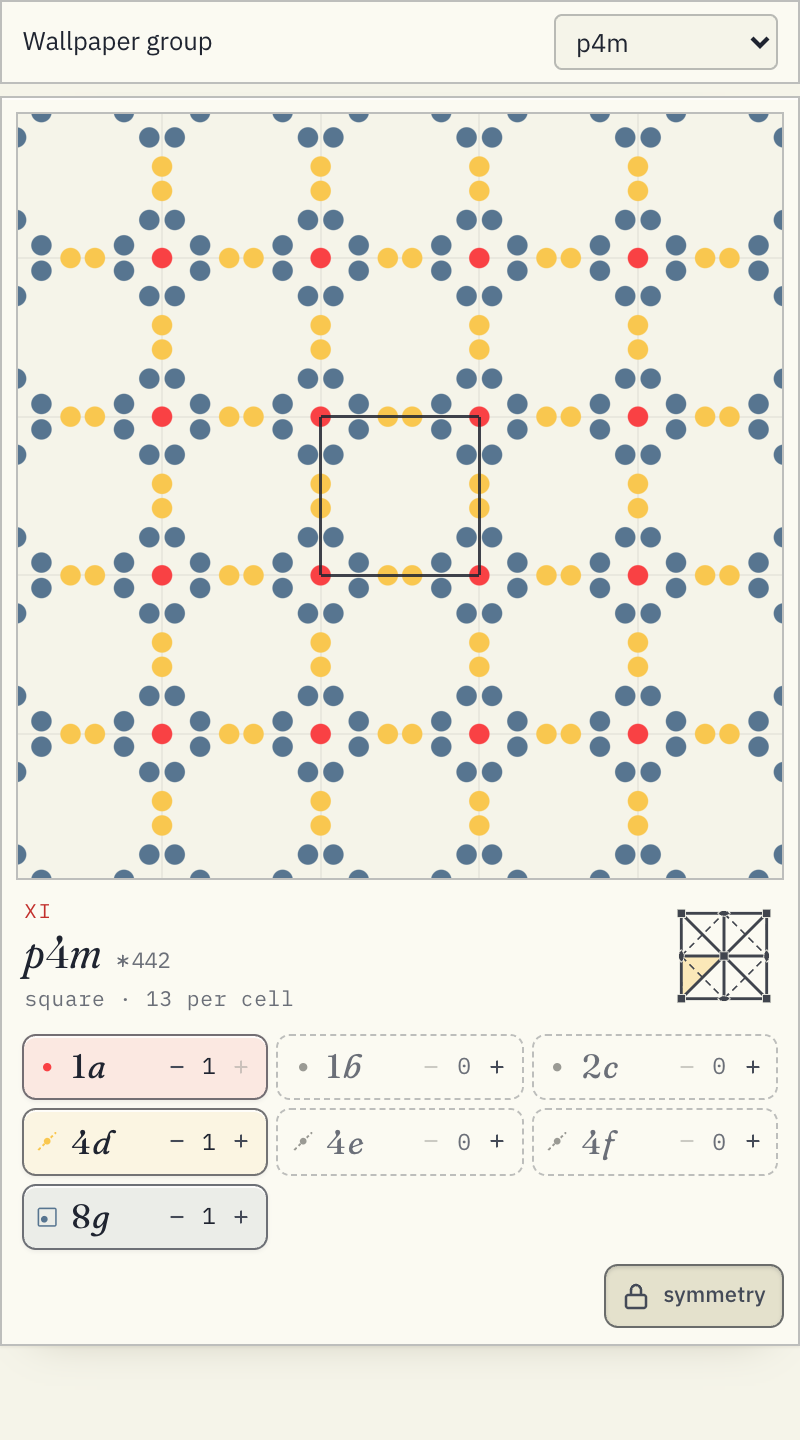
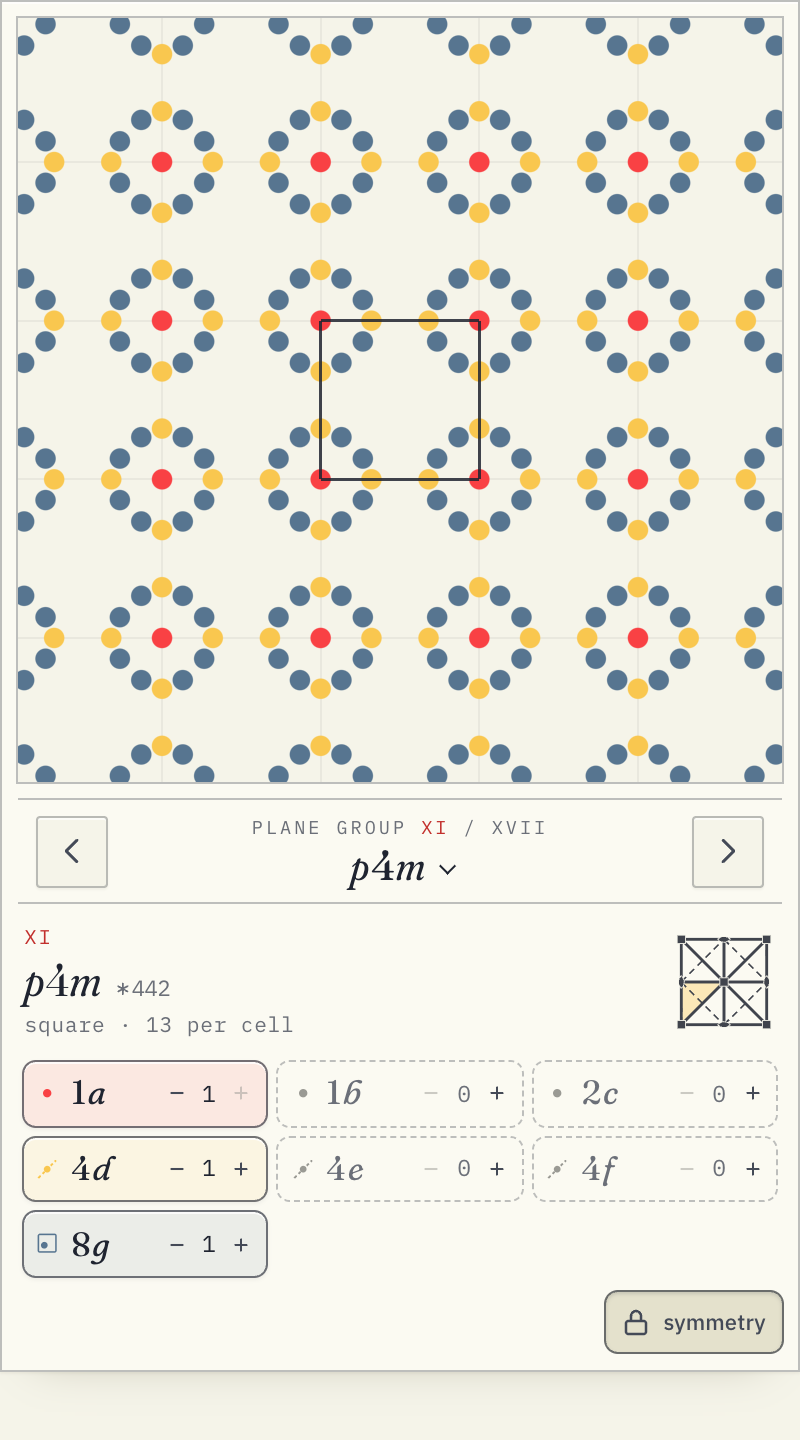
Style embedded group navigation as an atlas plate

diff --git a/src/embed.tsx b/src/embed.tsx
@@ -8,11 +8,59 @@ import "./site/styles/tokens.css";
 import "./site/styles/base.css";
 import "./site/styles/embed.css";
 import { Tile } from "./site/components/Tile";
+import { ChevronLeftIcon, ChevronRightIcon } from "./site/components/Icons";
+import { HM } from "./site/components/GroupSymbol";
 import { GpuSupportProvider, useGpuSupport } from "./site/hooks/useGpuSupport";
-import { planeGroups, randomOccupancy } from "./site/lib/groups";
+import { planeGroups, randomOccupancy, toRoman } from "./site/lib/groups";
 import { Rng } from "./engine/math/rng";
 
 const groups = planeGroups();
+
+function GroupNavigation({ selectedName, onChange }: { selectedName: string; onChange: (name: string) => void }) {
+  const index = groups.findIndex((group) => group.name === selectedName);
+  const previous = index < 0 ? null : groups[(index - 1 + groups.length) % groups.length];
+  const next = index < 0 ? null : groups[(index + 1) % groups.length];
+
+  return (
+    <nav className="embed__navigation" aria-label="Wallpaper group navigation">
+      <button
+        type="button"
+        className="embed__step"
+        onClick={() => previous && onChange(previous.name)}
+        disabled={!previous}
+        aria-label={`Previous wallpaper group${previous ? `: ${previous.name}` : ""}`}
+        title={previous?.name}
+      >
+        <ChevronLeftIcon size={19} />
+      </button>
+      <div className="embed__choice">
+        <p className="embed__index">
+          Plane group {index < 0 ? "" : <><span>{toRoman(index + 1)}</span> / {toRoman(groups.length)}</>}
+        </p>
+        <div className="embed__select-wrap">
+          <label className="visually-hidden" htmlFor="embed-group">Wallpaper group</label>
+          <span className="embed__selected" aria-hidden="true">
+            {index < 0 ? "Choose a group" : <HM name={selectedName} />}
+          </span>
+          <select id="embed-group" value={index < 0 ? "" : selectedName} onChange={(event) => onChange(event.currentTarget.value)}>
+            {index < 0 && <option value="" disabled>Choose a group</option>}
+            {groups.map((option) => <option key={option.name} value={option.name}>{option.name}</option>)}
+          </select>
+        </div>
+      </div>
+      <button
+        type="button"
+        className="embed__step"
+        onClick={() => next && onChange(next.name)}
+        disabled={!next}
+        aria-label={`Next wallpaper group${next ? `: ${next.name}` : ""}`}
+        title={next?.name}
+      >
+        <ChevronRightIcon size={19} />
+      </button>
+    </nav>
+  );
+}
 
 function Embed() {
   const { supported } = useGpuSupport();
@@ -24,24 +72,24 @@ function Embed() {
     url.searchParams.set("group", name);
     window.history.replaceState(window.history.state, "", url);
   };
+  const navigation = <GroupNavigation selectedName={selectedName} onChange={changeGroup} />;
 
   return (
     <main className="embed">
-      <div className="embed__picker">
-        <label htmlFor="embed-group">Wallpaper group</label>
-        <select id="embed-group" value={group?.name ?? ""} onChange={(event) => changeGroup(event.currentTarget.value)}>
-          {!group && <option value="" disabled>Choose a group</option>}
-          {groups.map((option) => <option key={option.name} value={option.name}>{option.name}</option>)}
-        </select>
-      </div>
       {!group ? (
-        <p className="embed__notice">
-          Unknown wallpaper group “{selectedName}”. Choose a group above or visit the <a href="./">atlas</a>.
-        </p>
+        <>
+          {navigation}
+          <p className="embed__notice">
+            Unknown wallpaper group “{selectedName}”. Choose a group above or visit the <a href="./">atlas</a>.
+          </p>
+        </>
       ) : !supported ? (
-        <p className="embed__notice">
-          This simulation needs WebGPU in a supported browser. <a href="./">Open the atlas</a> to learn more.
-        </p>
+        <>
+          {navigation}
+          <p className="embed__notice">
+            This simulation needs WebGPU in a supported browser. <a href="./">Open the atlas</a> to learn more.
+          </p>
+        </>
       ) : (
         <ol className="embed__card" aria-label={`${group.name} wallpaper group simulation`}>
           <Tile
@@ -50,6 +98,7 @@ function Embed() {
             initial={randomOccupancy(group, new Rng(1 + 101 * group.number))}
             seed={1 + 101 * group.number}
             pressure={null}
+            afterVisualization={navigation}
           />
         </ol>
       )}

diff --git a/tests/e2e/embed.spec.ts b/tests/e2e/embed.spec.ts
@@ -8,16 +8,33 @@ test("embeds one selected wallpaper group card", async ({ page }) => {
 
   await expect(card.locator(".tile")).toHaveCount(1);
   await expect(card.locator(".tile__name")).toContainText("p4g");
-  await expect(card.getByRole("combobox", { name: "Wallpaper group" })).toHaveValue("p4g");
+  const selector = card.getByRole("combobox", { name: /Wallpaper group/ });
+  await expect(selector).toHaveValue("p4g");
   await expect(card.getByRole("button", { name: "Pause simulation" })).toBeVisible();
   await expect(card.getByRole("button", { name: "symmetry" })).toBeVisible();
 
-  await card.getByRole("combobox", { name: "Wallpaper group" }).selectOption("p6m");
+  const positions = await card.locator(".tile").evaluate((tile) => {
+    const bounds = (selector: string) => tile.querySelector(selector)!.getBoundingClientRect();
+    return {
+      visualizationBottom: bounds(".tile__mat").bottom,
+      navigationTop: bounds(".embed__navigation").top,
+      navigationBottom: bounds(".embed__navigation").bottom,
+      labelTop: bounds(".tile__label").top,
+    };
+  });
+  expect(positions.navigationTop).toBeGreaterThanOrEqual(positions.visualizationBottom);
+  expect(positions.labelTop).toBeGreaterThanOrEqual(positions.navigationBottom);
+
+  await card.getByRole("button", { name: /Previous wallpaper group/ }).click();
+  await expect(selector).toHaveValue("p4m");
+  await card.getByRole("button", { name: /Next wallpaper group/ }).click();
+  await expect(selector).toHaveValue("p4g");
+
+  await selector.selectOption("p6m");
   await expect(card.locator(".tile")).toHaveCount(1);
   await expect(card.locator(".tile__name")).toContainText("p6m");
   expect(await card.locator("body").evaluate(() => new URL(location.href).searchParams.get("group"))).toBe("p6m");
 
-  const selector = card.getByRole("combobox", { name: "Wallpaper group" });
   for (const name of await selector.locator("option").allTextContents()) {
     await selector.selectOption(name);
     await expect(card.locator(".tile__name")).toContainText(name);
@@ -30,6 +47,6 @@ test("shows a useful message for an unknown group", async ({ page }) => {
   await page.goto("/embed.html?group=unknown");
   await expect(page.getByText(/Unknown wallpaper group/)).toBeVisible();
   await expect(page.locator(".tile")).toHaveCount(0);
-  await page.getByRole("combobox", { name: "Wallpaper group" }).selectOption("p2");
+  await page.getByRole("combobox", { name: /Wallpaper group/ }).selectOption("p2");
   await expect(page.locator(".tile__name")).toContainText("p2");
 });

diff --git a/src/site/styles/embed.css b/src/site/styles/embed.css
@@ -15,25 +15,103 @@ body {
   margin: 0 auto;
 }
 
-.embed__picker {
-  display: flex;
-  align-items: center;
-  justify-content: space-between;
-  gap: 0.75rem;
-  margin-bottom: 0.35rem;
-  padding: 0.4rem 0.65rem;
-  border: 1px solid var(--rule-mid);
-  background: var(--paper-raised);
-  font-family: var(--font-ui);
-  font-size: var(--step--1);
+.embed .tile {
+  grid-template-rows: auto auto auto 1fr auto;
 }
 
-.embed__picker select {
-  min-width: 7rem;
-  padding: 0.2rem 0.4rem;
+.embed__navigation {
+  display: grid;
+  grid-template-columns: 2.25rem minmax(0, 1fr) 2.25rem;
+  align-items: center;
+  gap: 0.35rem;
+  margin: 0.5rem 0.5rem 0;
+  padding: 0.35rem 0.55rem;
+  border-block: 1px solid var(--rule-mid);
+  background: var(--paper-raised);
+}
+
+.embed__step {
+  display: grid;
+  place-items: center;
+  width: 2.25rem;
+  height: 2.25rem;
+  padding: 0;
   border: 1px solid var(--rule-mid);
-  border-radius: var(--radius-s);
+  border-radius: var(--radius-xs);
   background: var(--paper);
+  color: var(--ink-2);
+  cursor: pointer;
+  box-shadow: var(--shadow-card);
+}
+
+.embed__step:hover:not(:disabled) {
+  background: var(--paper-deep);
+  color: var(--accent-ink);
+}
+
+.embed__step:disabled {
+  opacity: 0.45;
+  cursor: default;
+}
+
+.embed__choice {
+  min-width: 0;
+  text-align: center;
+}
+
+.embed__index {
+  font-family: var(--font-mono);
+  font-size: 0.58rem;
+  letter-spacing: var(--tracking-caps);
+  text-transform: uppercase;
+  color: var(--ink-3);
+}
+
+.embed__index span {
+  color: var(--mark-ink);
+}
+
+.embed__select-wrap {
+  position: relative;
+  width: fit-content;
+  max-width: 100%;
+  margin-inline: auto;
+  border-radius: var(--radius-xs);
+}
+
+.embed__select-wrap:focus-within {
+  outline: 2px solid var(--focus);
+  outline-offset: 2px;
+}
+
+.embed__select-wrap::after {
+  position: absolute;
+  right: 0.2rem;
+  top: 38%;
+  width: 0.35rem;
+  height: 0.35rem;
+  border-right: 1px solid currentColor;
+  border-bottom: 1px solid currentColor;
+  content: "";
+  transform: rotate(45deg);
+  pointer-events: none;
+}
+
+.embed__selected {
+  display: block;
+  padding: 0 1.05rem 0 0.3rem;
+  font-family: var(--font-display);
+  font-size: 1.3rem;
+  line-height: 1.2;
+  color: var(--ink);
+}
+
+.embed__select-wrap select {
+  position: absolute;
+  inset: 0;
+  width: 100%;
+  height: 100%;
+  opacity: 0;
   cursor: pointer;
 }
 

diff --git a/src/site/components/Tile.tsx b/src/site/components/Tile.tsx
@@ -2,7 +2,7 @@
 // symmetry diagram, the Wyckoff sites you can fill, and a switch to release
 // the symmetry.
 
-import { useState } from "react";
+import { useState, type ReactNode } from "react";
 import type { Group } from "../../engine/groups/group";
 import { cellCount, toRoman, type Occupancy } from "../lib/groups";
 import { Button } from "./Button";
@@ -19,9 +19,11 @@ export interface TileProps {
   seed: number;
   /** barostat pressure shared by the atlas (negative = tension; null = fixed volume) */
   pressure: number | null;
+  /** optional controls directly beneath the simulation */
+  afterVisualization?: ReactNode;
 }
 
-export function Tile({ group, initial, seed, pressure }: TileProps) {
+export function Tile({ group, initial, seed, pressure, afterVisualization }: TileProps) {
   const [occupancy, setOccupancy] = useState<Occupancy>(initial);
   const [released, setReleased] = useState(false);
   // a released crystal has no Wyckoff sites to edit: editing restores the symmetry
@@ -42,6 +44,7 @@ export function Tile({ group, initial, seed, pressure }: TileProps) {
           label={`Live ${group.name} simulation${released ? " with its symmetry released" : ""}. Press and move to touch it.`}
         />
       </div>
+      {afterVisualization}
       <div className="tile__label">
         <div className="tile__head">
           <p className="tile__no">{toRoman(group.number)}</p>

diff --git a/src/site/components/Icons.tsx b/src/site/components/Icons.tsx
@@ -95,6 +95,18 @@ export const ArrowRightIcon = (p: IconProps) => (
   </Icon>
 );
 
+export const ChevronLeftIcon = (p: IconProps) => (
+  <Icon {...p}>
+    <path d="m10.5 3.5-4.5 4.5 4.5 4.5" />
+  </Icon>
+);
+
+export const ChevronRightIcon = (p: IconProps) => (
+  <Icon {...p}>
+    <path d="m5.5 3.5 4.5 4.5-4.5 4.5" />
+  </Icon>
+);
+
 export const CopyIcon = (p: IconProps) => (
   <Icon {...p}>
     <rect x="5.5" y="5.5" width="8" height="8" rx="1.2" />

diff --git a/README.md b/README.md
@@ -44,7 +44,7 @@ Paste this iframe into an HTML page to show one interactive simulation card:
 ```
 
 Change `p4m` in `src` to set the initial group. Visitors can switch among all 17
-groups using the selector above the card. The iframe keeps the card's play,
+groups using the controls below the simulation. The iframe keeps the card's play,
 full-screen, Wyckoff-site, and symmetry controls. Give it more height if a
 narrow layout makes the card scroll. The host page must allow WebGPU in the iframe.
 
